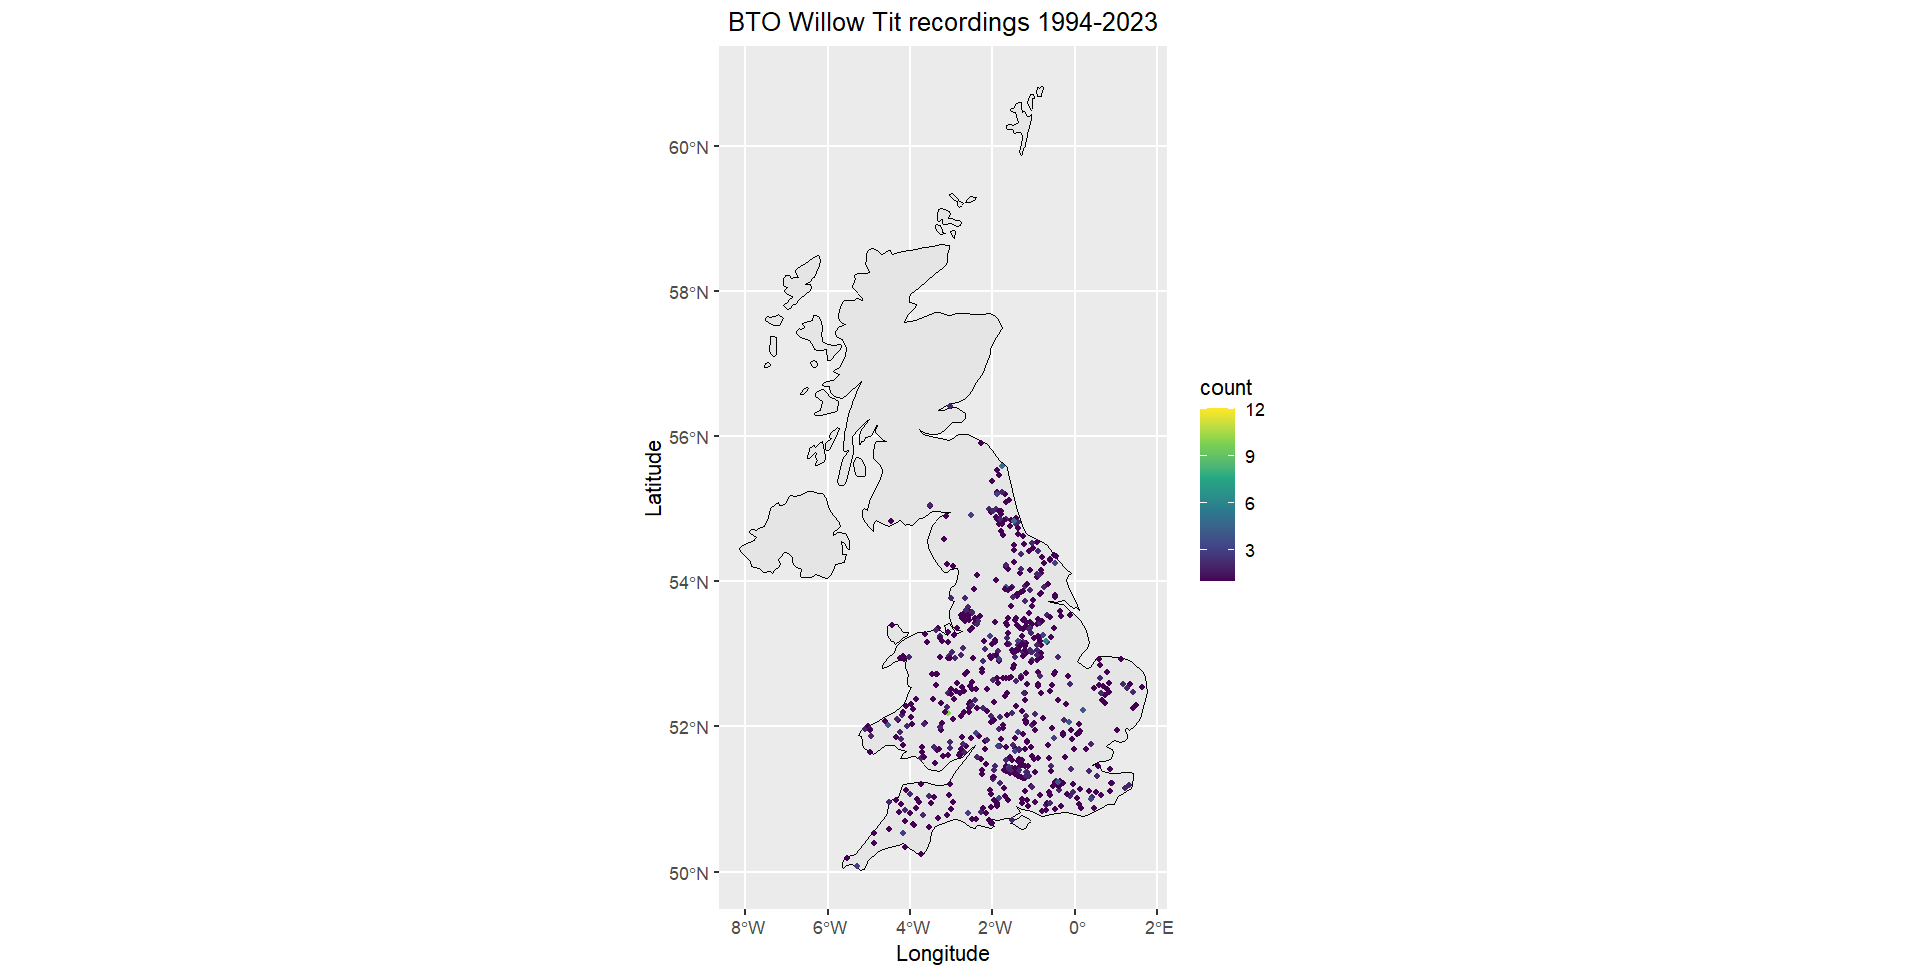
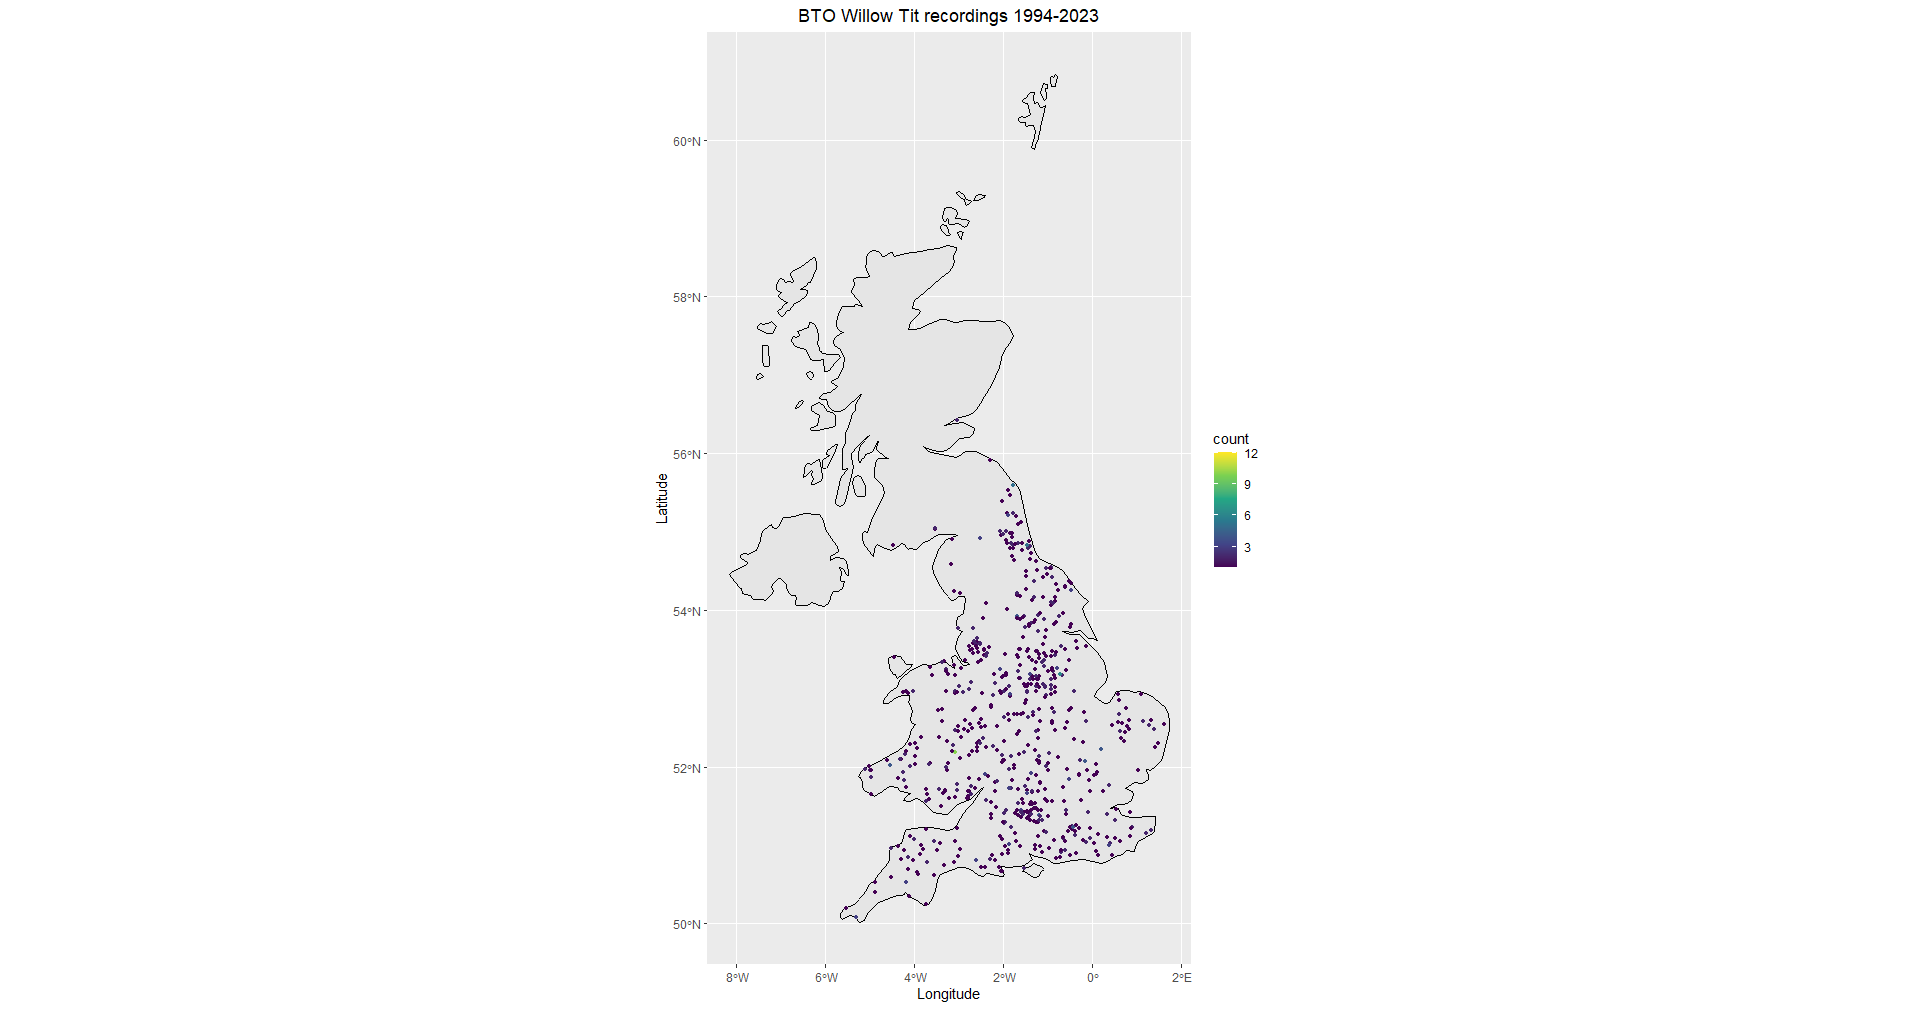
Updates to btodata.qmd

diff --git a/docs/btodata.html b/docs/btodata.html
@@ -171,7 +171,8 @@ ul.task-list li input[type="checkbox"] {
    
   <ul>
   <li><a href="#a-quick-note-on-bbs-methodology" id="toc-a-quick-note-on-bbs-methodology" class="nav-link active" data-scroll-target="#a-quick-note-on-bbs-methodology"><span class="header-section-number">7.1</span> A quick note on BBS methodology</a></li>
-  <li><a href="#results" id="toc-results" class="nav-link" data-scroll-target="#results"><span class="header-section-number">7.2</span> Results</a></li>
+  <li><a href="#exploration-of-results" id="toc-exploration-of-results" class="nav-link" data-scroll-target="#exploration-of-results"><span class="header-section-number">7.2</span> Exploration of results</a></li>
+  <li><a href="#willow-tits-in-the-north-west" id="toc-willow-tits-in-the-north-west" class="nav-link" data-scroll-target="#willow-tits-in-the-north-west"><span class="header-section-number">7.3</span> Willow Tits in the North West</a></li>
   </ul>
 </nav>
     </div>
@@ -205,17 +206,50 @@ ul.task-list li input[type="checkbox"] {
 <p>Data collected as part of the BBS follows a strict protocol. A 1x1km grid square is surveyed. Two visits are performed during the breeding season: an early visit, between April and mid May, and a late visit, between mid May and June. For each visit, observers record the number of individuals along two 1km transects. Each transect is subdivided into 200m-long sections and observations are recorded at four distance bands: &lt;25m, 25-100m, &gt;100m, in flight at a distance.</p>
 <p>See the accompanying BBS paper <a href="https://onlinelibrary.wiley.com/doi/10.1111/geb.13943" class="uri">https://onlinelibrary.wiley.com/doi/10.1111/geb.13943</a> for more detailed methodology and discussion.</p>
 </section>
-<section id="results" class="level2" data-number="7.2">
-<h2 data-number="7.2" class="anchored" data-anchor-id="results"><span class="header-section-number">7.2</span> Results</h2>
+<section id="exploration-of-results" class="level2" data-number="7.2">
+<h2 data-number="7.2" class="anchored" data-anchor-id="exploration-of-results"><span class="header-section-number">7.2</span> Exploration of results</h2>
 <p>Between 1994-2023, there were 1479 Willow Tit observations across 614 unique sites (i.e.&nbsp;1x1km grid squares). 327 of these sites were only surveyed once. This would presumably be due to the BBS methodology of randomly allocating grid squares.</p>
+<p>The sightings were then plotted on a map of the UK:</p>
+<p><img src="figures/BTO_BSS_WTcount2.png" class="img-fluid"></p>
 <p>Data were then grouped by the year and site. To avoid adding the counts of early and late visits, the highest count across both was used to get an estimated total of 2035 Willow Tit observations over the 30 years.</p>
 <p>High count totals for each year were then plotted to look at trends:</p>
 <p><img src="figures/WT_Highcounts_per_year_bargraph.png" class="img-fluid"></p>
 <p>It appears that Willow Tit observations were historically more likely later in the breeding season between mid May and June, with more recent years having higher rates of observations earlier between April and mid May. I am not sure what this indicates.</p>
-<p>The affect of the Covid pandemic on recording during 2020 can be seen, but numbers of Willow Tits show a steady decline. However, a quick look at the number of sites surveyed and the number of surveys performed each year shows a possible correlation with this decline:</p>
+<p>The affect of the Covid pandemic on recording during 2020 can be seen, but overall, there is a decrease in numbers of Willow tits as shown by adding regression lines:</p>
+<p><img src="figures/WT_highcounts_regressionline.png" class="img-fluid"></p>
+<p>However, a quick look at the number of sites surveyed and the number of surveys performed each year shows a possible correlation with this decline:</p>
 <p><img src="figures/BBS_Sites_per_year.png" class="img-fluid"> <img src="figures/BBSurveys_per_year.png" class="img-fluid"></p>
 <p>That is, the more sites surveyed, the more likely a Willow Tit will be detected. Considering only 0.02% of the total BSS checklists contained Willow Tit observations, this is very likely.</p>
-<p>Next, I plotted the sites (by latitude and longitude) onto a map of the UK to see where observations occurred including numbers:</p>
+<p>I ran both Spearman’s and Kendall’s correation tests to calculate the correlation coefficient for the data:</p>
+<table class="caption-top table">
+<colgroup>
+<col style="width: 33%">
+<col style="width: 33%">
+<col style="width: 33%">
+</colgroup>
+<thead>
+<tr class="header">
+<th>Test</th>
+<th>Result</th>
+<th>Discussion</th>
+</tr>
+</thead>
+<tbody>
+<tr class="odd">
+<td>Spearman</td>
+<td>0.9111942</td>
+<td>Indicates a very strong positive monotonic relationship.</td>
+</tr>
+<tr class="even">
+<td>Kendall</td>
+<td>0.7600216</td>
+<td>Indicates a strong positive association between the two variables.</td>
+</tr>
+</tbody>
+</table>
+<p>I also ran a Kendall rank corrleation test to get significance and confidence intervals and got a <strong>p-value &lt; 2.2e-16</strong> which shows a significantly significant correlation.</p>
+<p>After this, I stopped as I don’t fully understand the statistics and went back to visuals.</p>
+<p>I plotted the BBS Willow Tit sightings onto a map of the UK and set it beside the eBird map from the earlier chapter (after removing the checklists with no sightings):</p>
 <div id="fig-Obsmaps" class="quarto-layout-panel">
 <figure class="quarto-float quarto-float-fig figure">
 <div aria-describedby="fig-Obsmaps-caption-0ceaefa1-69ba-4598-a22c-09a6ac19f8ca">
@@ -223,7 +257,7 @@ ul.task-list li input[type="checkbox"] {
 <div class="quarto-layout-cell" style="flex-basis: 50.0%;justify-content: flex-start;">
 <div class="quarto-figure quarto-figure-center">
 <figure class="figure">
-<p><img src="figures/BTO_BSS_WTcount2.png" class="img-fluid figure-img"></p>
+<p><img src="figures/BTO_BSS_WTcount2014-2023b.png" class="img-fluid figure-img"></p>
 <figcaption>BTO data</figcaption>
 </figure>
 </div>
@@ -243,6 +277,13 @@ Figure&nbsp;7.1
 </figcaption>
 </figure>
 </div>
+<p>The BBS data clearly cover a wider area (as well as a longer time period), but still show areas of similarity.</p>
+</section>
+<section id="willow-tits-in-the-north-west" class="level2" data-number="7.3">
+<h2 data-number="7.3" class="anchored" data-anchor-id="willow-tits-in-the-north-west"><span class="header-section-number">7.3</span> Willow Tits in the North West</h2>
+<p>More than 15% of the UK’s Willow Tits are found in the North West. Over the past few years, the Lancashire Wildlife Trust has been running their <a href="https://www.lancswt.org.uk/wet-willow-wildlife">Wet Willow Wildlife</a> project aimed at improving habitats around Greater Manchester. The project is currently ongoing and the data are not publically available. I thought it would be interesting to plot both the BTO and eBird data on the area surrounding Manchester to see the results.</p>
+<p><img src="figures/BTO_BSS_WTcountManchester.png" class="img-fluid"> <img src="figures/eBird_WTcounts_Manchester.png" class="img-fluid"></p>
+<p>This was an interesting exercise.</p>
 
 
 </section>
